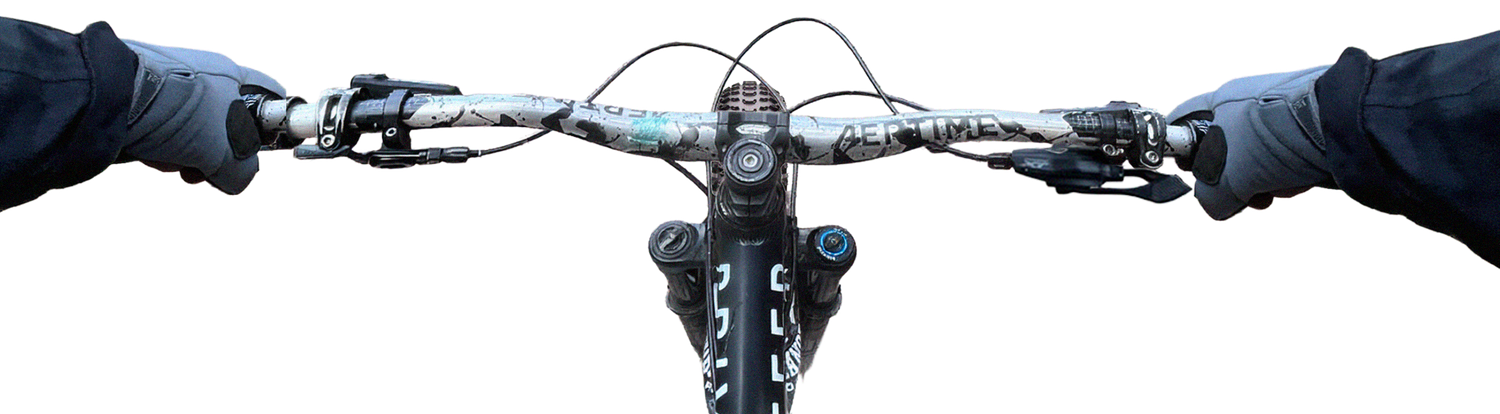
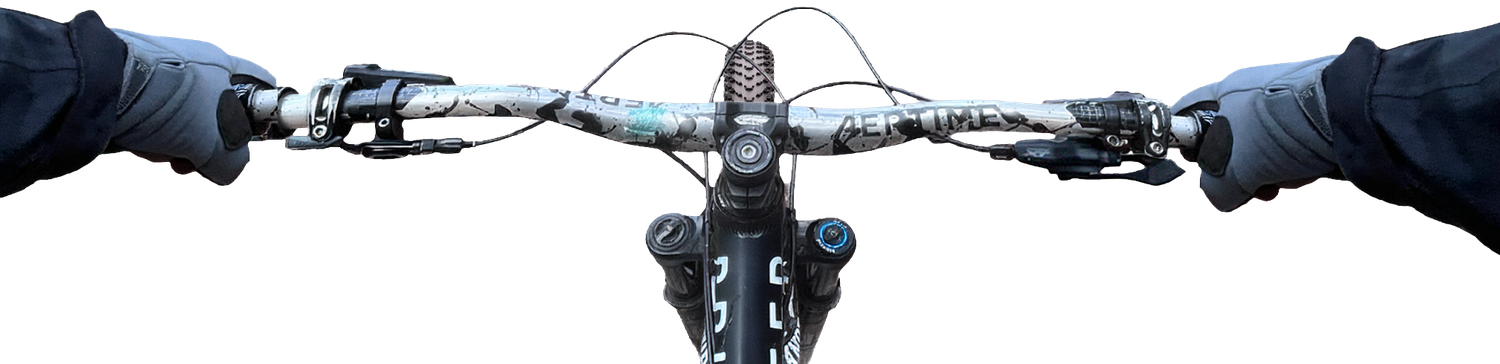
Nur noch ein Lenker (Aertime, neues Foto), schmutziger Reifen je nach Untergrund/Pfuetze/Regen, Spiegelungen und Lichtflecken auf dem Lenker
Claude-Session: https://claude.ai/code/session_019RP7ewH259xtsJocXXAwey

diff --git a/src/game.js b/src/game.js
@@ -2008,7 +2008,7 @@ function shift(d){
 }
 function hintHud(){
   const key=diff+'|'+quality+'|'+WX+'|'+WXLIVE+'|'+WXLIVEOK+'|'+AUDIO.on+'|'+AUDIO.hub+'|'+NIGHT;if(hintHud.k===key)return;hintHud.k=key;
-  hintEl.innerHTML=[1,2,3,4].map(n=>'<button type="button" data-act="d'+n+'"'+(diff===n?' class="on"':'')+'><b>'+n+'</b>'+DIFFN[n]+'</button>').join('')+'<button type="button" data-act="q"><b>Q</b>Grafik '+QN[quality]+'</button><button type="button" data-act="n"><b>N</b>Sound '+(AUDIO.on?'an':'aus')+'</button><button type="button" data-act="w"><b>W</b>Wetter '+WXL()+'</button><button type="button" data-act="v"><b>V</b>Vollbild</button><button type="button" data-act="c"><b>C</b>Lenker</button><button type="button" data-act="f"><b>F</b>Freilauf '+(AUDIO.hub?AUDIO.hub:'aus')+'</button>'+(MW?'<button type="button" data-act="l"'+(NIGHT?' class="on"':'')+'><b>L</b>Nightride'+(NIGHT?' an':'')+'</button>':'');
+  hintEl.innerHTML=[1,2,3,4].map(n=>'<button type="button" data-act="d'+n+'"'+(diff===n?' class="on"':'')+'><b>'+n+'</b>'+DIFFN[n]+'</button>').join('')+'<button type="button" data-act="q"><b>Q</b>Grafik '+QN[quality]+'</button><button type="button" data-act="n"><b>N</b>Sound '+(AUDIO.on?'an':'aus')+'</button><button type="button" data-act="w"><b>W</b>Wetter '+WXL()+'</button><button type="button" data-act="v"><b>V</b>Vollbild</button><button type="button" data-act="f"><b>F</b>Freilauf '+(AUDIO.hub?AUDIO.hub:'aus')+'</button>'+(MW?'<button type="button" data-act="l"'+(NIGHT?' class="on"':'')+'><b>L</b>Nightride'+(NIGHT?' an':'')+'</button>':'');
 }
 function gearHud(){
   hintHud();
@@ -2024,29 +2024,53 @@ click.onNote=t=>{toastEl.textContent=t;toastEl.classList.add('on');clearTimeout(
 let bleKey='';
 const bleChange=()=>{if(trainer.connected)inputMode='trainer';else if(inputMode==='trainer')inputMode='keyboard';const ck=click.connected+'|'+click.devs.length;if(bleKey.indexOf(ck)<0&&bleMsg.indexOf('Click')===0)bleMsg='';const k=trainer.connected+'|'+ck+'|'+bleMsg;if(k===bleKey)return;bleKey=k;if(ov.style.display!=='none'&&lastMenu&&!helpOpen)menu(lastMenu[0],lastMenu[1]);};
 trainer.onChange=bleChange;click.onChange=bleChange;   // nur noch Lenkeransicht (Cockpit)
-const CK_STAND=[1,3,0,900,30];let COCK=0;try{COCK=localStorage.getItem('miworu_cockpit')==='2'?1:0;}catch(e){}
+const CK_STAND=[1,3,0,900,30];const COCK=1;
 // Neuer Lenker: leichtes Filmkorn ueber dem Lenker und ein sich drehender Stollenreifen (Draufsicht), beides deckungsgleich mit dem Lenkerbild
-const CKT=document.createElement('div'),CKG=document.createElement('div');
-[CKT,CKG].forEach(d=>{d.className='ckfx';d.style.display='none';document.getElementById('cockpit').after(d);});
-CKT.id='cktire';CKG.id='ckgrain';
+const CKT=document.createElement('div'),CKG=document.createElement('div'),CKM=document.createElement('div'),CKS=document.createElement('div'),CKD=document.createElement('div');
+[CKT,CKM,CKS,CKD,CKG].forEach(d=>{d.className='ckfx';d.style.display='none';document.getElementById('cockpit').after(d);});
+CKT.id='cktire';CKG.id='ckgrain';CKM.id='ckmud';CKS.id='cksheen';CKD.id='ckdapple';
 {const c=document.createElement('canvas');c.width=20;c.height=14;const g=c.getContext('2d');   // Stollenmuster: dunkle Klotzchen mit heller Kante
   g.fillStyle='rgba(0,0,0,0.62)';g.fillRect(0,0,20,14);g.fillStyle='rgba(205,205,200,0.55)';
   g.fillRect(1,1,8,5);g.fillRect(11,8,8,5);g.fillStyle='rgba(30,30,30,0.7)';g.fillRect(2,5,7,1.5);g.fillRect(12,12,7,1.5);
   CKT.style.backgroundImage='url('+c.toDataURL()+')';}
+{const c=document.createElement('canvas');c.width=c.height=64;const g=c.getContext('2d');   // Schlammspritzer fuer den Reifen
+  for(let k=0;k<46;k++){const x=Math.random()*64,y=Math.random()*64,r=1.5+Math.random()*5;g.fillStyle='rgba('+(52+Math.random()*28|0)+','+(36+Math.random()*20|0)+','+(20+Math.random()*12|0)+','+(0.55+Math.random()*0.45).toFixed(2)+')';g.beginPath();g.ellipse(x,y,r,r*(0.6+Math.random()*0.8),Math.random()*3,0,6.3);g.fill();}
+  CKM.style.backgroundImage='url('+c.toDataURL()+')';}
+{const c=document.createElement('canvas');c.width=c.height=128;const g=c.getContext('2d');g.fillStyle='#fff';g.fillRect(0,0,128,128);   // Licht-und-Schatten-Flecken (Blaetterdach)
+  for(let k=0;k<26;k++){const x=Math.random()*128,y=Math.random()*128,r=6+Math.random()*16;const gr=g.createRadialGradient(x,y,0,x,y,r);gr.addColorStop(0,'rgba(0,0,0,0.85)');gr.addColorStop(1,'rgba(0,0,0,0)');g.fillStyle=gr;g.fillRect(x-r,y-r,2*r,2*r);}
+  CKD.style.backgroundImage='url('+c.toDataURL()+')';}
+let CKDIRT=0;
 let GRAINS=[];{for(let k=0;k<4;k++){const c=document.createElement('canvas');c.width=c.height=128;const g=c.getContext('2d'),d=g.createImageData(128,128);
   for(let i=0;i<d.data.length;i+=4){const v=Math.random()*255|0;d.data[i]=d.data[i+1]=d.data[i+2]=v;d.data[i+3]=255;}g.putImageData(d,0,0);GRAINS.push('url('+c.toDataURL()+')');}}
 let CKPH=0,CKLT=0,CKGT=0,CKGI=0;
+const CKENV={fd:0,surf:0,pud:false,spike:0};
 function updateCockFx(now,deg){
   const dt=Math.min(0.05,Math.max(0,(now-CKLT)/1000));CKLT=now;
   const tf=cockpitEl.style.transform,v=Math.max(0,st.v||0);
   CKPH=(CKPH+v*dt*34)%1000;   // Stollen laufen mit dem Tempo nach vorn (nach oben im Bild)
+  // Dreck am Reifen: Pfuetze = Spritzer, Trail/Schotter und Regen = langsam mehr, Asphalt = trocknet/wird abgeschleudert
+  const tgt=CKENV.surf===2?0.55:CKENV.surf===1?0.25:0;
+  if(CKENV.pud&&v>1)CKENV.spike=Math.min(1,CKENV.spike+dt*1.8*Math.min(1,v/6));
+  CKENV.spike=Math.max(0,CKENV.spike-dt*0.16);
+  const want=Math.max(Math.min(1,tgt+WXS.rain*0.2*(CKENV.surf?1:0.5)),CKENV.spike);
+  CKDIRT+=(want-CKDIRT)*Math.min(1,dt*(want>CKDIRT?1.6:0.12))*(v>0.5?1:0.2);
   const k=Math.max(0.3,1-v/16);                 // bei hohem Tempo weichere, verwischte Stollen
-  CKT.style.transform=CKG.style.transform=tf;CKT.style.display=CKG.style.display='block';
-  CKT.style.backgroundPosition='0 '+(-(CKPH%14)*0.11).toFixed(3)+'vw';CKT.style.opacity=k.toFixed(2);
+  const bgp='0 '+(-(CKPH%14)*0.11).toFixed(3)+'vw';
+  CKT.style.transform=CKG.style.transform=CKM.style.transform=CKS.style.transform=CKD.style.transform=tf;
+  CKT.style.display=CKG.style.display=CKM.style.display=CKS.style.display=CKD.style.display='block';
+  CKT.style.backgroundPosition=bgp;CKT.style.opacity=k.toFixed(2);
+  CKM.style.backgroundPosition='0 '+(-(CKPH%64)*0.11*0.5).toFixed(2)+'vw';CKM.style.opacity=Math.min(0.92,CKDIRT*1.35).toFixed(2);
+  // Spiegelungen / Licht: Himmelsreflex wandert mit Lenkung und Blickrichtung zur Sonne, Blaetterdach wirft Flecken, Nacht und Nebel daempfen
+  camera.getWorldDirection(_sv);
+  const sf=Math.max(0,_sv.x*SUN.x+_sv.z*SUN.z)/Math.max(0.001,Math.hypot(SUN.x,SUN.z)),day=WXS.day==null?1:WXS.day;
+  const clear=(1-WXS.fog*0.6)*(1-WXS.rain*0.5),forest=Math.min(1,CKENV.fd||0);
+  const gx=50+deg*2.2+Math.sin(now*0.0003)*6,glint=day*clear*(0.18+0.5*sf*sf)*(1-forest*0.55)+WXS.rain*0.14;
+  CKS.style.backgroundPosition=gx.toFixed(1)+'% 0';CKS.style.opacity=Math.min(0.85,glint).toFixed(2);
+  CKD.style.backgroundPosition=((now*0.012*(0.4+v*0.35))%128).toFixed(1)+'px '+((now*0.006)%128).toFixed(1)+'px';
+  CKD.style.opacity=(forest*day*0.55*(0.4+Math.min(1,v/5)*0.6)).toFixed(2);
   if(now-CKGT>70){CKGT=now;CKGI=(CKGI+1)%4;CKG.style.backgroundImage=GRAINS[CKGI];CKG.style.backgroundPosition=((Math.random()*128)|0)+'px '+((Math.random()*128)|0)+'px';}
 }
-function applyCockpit(){const el=document.getElementById('cockpit');el.src=COCK?'/assets/ui/cockpit2.png':'/assets/ui/cockpit.png';el.classList.toggle('c2',!!COCK);if(!COCK)CKT.style.display=CKG.style.display='none';}
-function cycleCockpit(){COCK=COCK?0:1;try{localStorage.setItem('miworu_cockpit',COCK?'2':'1');}catch(e){}applyCockpit();toastMsg('Lenker: '+(COCK?'Neu (Aertime)':'Original'));}
+function applyCockpit(){const el=document.getElementById('cockpit');el.src='/assets/ui/cockpit2.png';el.classList.add('c2');}
 applyCockpit();
 const cockpitEl=document.getElementById('cockpit'),glowEl=document.getElementById('glow'),_cd=new THREE.Vector3(),_sv=new THREE.Vector3();
 function reset(){SHK.y=SHK.vy=SHK.r=SHK.vr=0;SHK.i=0;SHK.fi=0;SHK.w=SHK.wv=0;SHK.air=null;st={pos:0,v:0,x:0.4,power:0,t:0,crank:0.6,wheel:0,lean:0,bar:0,pitch:0,done:false};resetJoggers();vanWait=12;VANS&&VANS.forEach(v=>{if(!v.parked){v.active=false;v.g.visible=false;}});}
@@ -2068,7 +2092,6 @@ window.addEventListener('keydown',e=>{
   if(e.key==='r'||e.key==='R')start();
   if(e.key==='Escape')pauseGame();
   if(e.key==='v'||e.key==='V')toggleFS();
-  if(e.key==='c'||e.key==='C')cycleCockpit();
   if(e.key==='q'||e.key==='Q')cycleQ();
   if(e.key==='n'||e.key==='N'){AUDIO.toggle();toastEl.textContent='Sound: '+(AUDIO.on?'an':'aus');toastEl.classList.add('on');clearTimeout(toastT);toastT=setTimeout(()=>toastEl.classList.remove('on'),1100);}
   if(e.key==='w'||e.key==='W')cycleWX();
@@ -2147,7 +2170,7 @@ function update(dt){
     if(hit&&!update.inPud&&st.v>1.5){splashDrops(st.v);AUDIO.splash(st.v);}update.inPud=hit;
   }
   if(AUDIO.on&&AUDIO.suspended&&st.t>3&&!update.sndT){update.sndT=1;toastEl.textContent='Sound aktivieren: einmal klicken oder eine Taste drücken';toastEl.classList.add('on');clearTimeout(toastT);toastT=setTimeout(()=>toastEl.classList.remove('on'),4000);}
-  {const fd=forestD(PX[i],PZ[i]);AUDIO.update(dt,{running:true,v:st.v,surf:SHK.air?-1:SURF[i],pedal:st.power>20?1:0,brake:!!down,forest:fd,rain:WXS.rain,day:WXS.day,night:NIGHT,pud:!!update.inPud});}
+  {const fd=forestD(PX[i],PZ[i]);CKENV.fd=fd;CKENV.surf=SURF[i];CKENV.pud=!!update.inPud;AUDIO.update(dt,{running:true,v:st.v,surf:SHK.air?-1:SURF[i],pedal:st.power>20?1:0,brake:!!down,forest:fd,rain:WXS.rain,day:WXS.day,night:NIGHT,pud:!!update.inPud});}
   updateJoggers(dt);updateWildlife(dt);updateVans(dt);updateGroup(dt);
   const steer=(right?1:0)-(left?1:0);
   // Automatische Lenkung (Rollentrainer wie D100 oder KICKR können nicht lenken): Lenker und Neigung folgen dem
@@ -2255,7 +2278,7 @@ function showHelp(){
     '<div class="hscroll">'+
     sec('Das Spiel',['Du fährst echte Mountainbike-Strecken aus der Lenkersicht. Dein Tempo entsteht nur durch dein Treten, auch bergab: Abfahrten sind neutral. Lenken und Ausweichen laufen automatisch.','Mit einem Smart-Trainer (Bluetooth) trittst du einfach los, ohne Trainer geht es mit der Tastatur.'])+
     sec('Trainer und Zwift-Geräte koppeln',['Für Zwift Cog und Zwift Click müssen <b>beide</b> gekoppelt sein, sonst funktioniert das Schalten nicht. Beide im Menü unter Bluetooth verbinden (Click vorher in den blauen Koppelmodus bringen).','<b>iPad / iPhone:</b> Safari kann kein Bluetooth. Dafür brauchst du einmalig die kostenlose Zusatz-App <b>Bluefy</b>: 1. Bluefy im App Store installieren. 2. MIWORU-Adresse in Safari kopieren. 3. Bluefy öffnen, Adresse in die Adresszeile einfügen. 4. Im Spiel Trainer, Cog und Click koppeln. Das Spiel immer in Bluefy starten, nicht in Safari.'])+
-    sec('Fahren',['<b>↑</b> treten · <b>↓</b> bremsen','<b>+</b> / <b>−</b> (oder Bild↑ / Bild↓): Gang schwerer / leichter. Zwift Click: <b>+</b> kurz = schwerer, gedrückt halten oder andere Taste = leichter.','<b>R</b> Neustart · <b>Esc</b> Pause und Menü · <b>C</b> Lenker wechseln · <b>V</b> Vollbild (Esc beendet es, auf dem Tablet das ✕ oben links)','Ins <b>Höhenprofil</b> oben klicken oder ziehen: an diese Stelle der Strecke springen.'])+
+    sec('Fahren',['<b>↑</b> treten · <b>↓</b> bremsen','<b>+</b> / <b>−</b> (oder Bild↑ / Bild↓): Gang schwerer / leichter. Zwift Click: <b>+</b> kurz = schwerer, gedrückt halten oder andere Taste = leichter.','<b>R</b> Neustart · <b>Esc</b> Pause und Menü · <b>V</b> Vollbild (Esc beendet es, auf dem Tablet das ✕ oben links)','Ins <b>Höhenprofil</b> oben klicken oder ziehen: an diese Stelle der Strecke springen.'])+
     sec('Schwierigkeit',['<b>1</b> Leicht: 1,6-fache Wirkung deiner Watt, Steigungen nur zu 40 %','<b>2</b> Normal','<b>3</b> Hardcore: Steigungen zu 150 %, 0,85-fache Watt','<b>4</b> Eskalation: 20 % härter als realistisch','Die Stufen sind auch oben rechts antippbar.'])+
     sec('Anzeige und Sound ein- und ausschalten',['<b>Q</b> Grafik: Niedrig, Mittel, Hoch (bei ruckelndem Bild eine Stufe tiefer)','<b>V</b> Vollbild an/aus (Esc beendet; auf dem Tablet das ✕ oben links)','<b>T</b> Tageszeit: Live, Morgen, Mittag, Abend, Dämmerung (Nebel in den Senken, Sonnenstrahlen)','<b>J</b> Jahreszeit: Standard, Herbst (Laubfarben, fallendes Laub), Winter (Schnee, kahle Bäume)','Auf Stufe Hoch: Sonnenstrahlen, Randunschärfe bei hohem Tempo, bei Nightride sichtbarer Lichtkegel mit Insekten','<b>W</b> Wetter: aus, Regen und weitere Stufen','<b>L</b> Nightride: Nachtfahrt an oder aus (nur auf den festen Strecken)','<b>N</b> Sound: alle Geräusche an oder aus','<b>F</b> Freilauf: schaltet durch aus, 16, 32, 56 und 72 Zähne. Weniger Zähne klingen gröber und klickernder, 72 ist das feine Surren. Bei hohem Tempo wird der Freilauf von Wind und Reifenabrollen überdeckt, ganz weg ist er nur auf „aus“.'])+
     sec('Nachtfahrt und Tiere',['Im Nightride fährst du mit Stirnlampe, Mond und Sternen. Nur dort und nur im dunklen Wald tauchen ab und zu Tiere auf: Wildschweine in einer Rotte mit Frischlingen, Hirsche und Rehe.','Du siehst sie nur schemenhaft am Wegrand, ihre Augen reflektieren das Licht deiner Lampe. Vor dem Weggehen rufen sie leise. Kommst du näher als 10 Meter, rennen sie weg und verschwinden in der Dunkelheit.','Ausschalten: <b>L</b> beendet den Nightride, und damit sind auch die Tiere weg. Ihre Rufe sind Teil von <b>N</b> (Sound).'])+
@@ -2392,7 +2415,7 @@ function menu(title,sub){
 // Pause + Hauptmenue (Esc oder Menue-Knopf oben rechts, z. B. fuer iPad ohne Tastatur)
 function pauseGame(){if(!running)return;running=false;paused=true;trainer.setGrade(0,0.005,true);offEl.style.display='none';menu('Weiterfahren','Pause · '+(st.pos/1000).toFixed(2)+' km · '+fmtT(st.t));}
 const menuBtn=document.getElementById('menuBtn');menuBtn.onclick=pauseGame;
-hintEl.onclick=e=>{const b=e.target.closest('[data-act]');if(!b)return;const a=b.getAttribute('data-act');if(a==='d1')setDiff(1);else if(a==='d2')setDiff(2);else if(a==='d3')setDiff(3);else if(a==='d4')setDiff(4);else if(a==='v')toggleFS();else if(a==='c')cycleCockpit();else if(a==='q')cycleQ();else if(a==='n'){AUDIO.toggle();toastEl.textContent='Sound: '+(AUDIO.on?'an':'aus');toastEl.classList.add('on');clearTimeout(toastT);toastT=setTimeout(()=>toastEl.classList.remove('on'),1100);}else if(a==='w')cycleWX();else if(a==='l')toggleNight();else if(a==='f'){const h=AUDIO.cycleHub();hintHud.k=null;toastEl.textContent='Freilauf: '+(h?h+' Zähne':'aus');toastEl.classList.add('on');clearTimeout(toastT);toastT=setTimeout(()=>toastEl.classList.remove('on'),1200);}};
+hintEl.onclick=e=>{const b=e.target.closest('[data-act]');if(!b)return;const a=b.getAttribute('data-act');if(a==='d1')setDiff(1);else if(a==='d2')setDiff(2);else if(a==='d3')setDiff(3);else if(a==='d4')setDiff(4);else if(a==='v')toggleFS();else if(a==='q')cycleQ();else if(a==='n'){AUDIO.toggle();toastEl.textContent='Sound: '+(AUDIO.on?'an':'aus');toastEl.classList.add('on');clearTimeout(toastT);toastT=setTimeout(()=>toastEl.classList.remove('on'),1100);}else if(a==='w')cycleWX();else if(a==='l')toggleNight();else if(a==='f'){const h=AUDIO.cycleHub();hintHud.k=null;toastEl.textContent='Freilauf: '+(h?h+' Zähne':'aus');toastEl.classList.add('on');clearTimeout(toastT);toastT=setTimeout(()=>toastEl.classList.remove('on'),1200);}};
 function resume(){if(GRP_CODE&&!GRP.peer)grpJoin();menuBtn.style.display='';paused=false;running=true;ov.style.display='none';hudBox.style.display='block';}
 const PK='miworu_prog2_'+RKEY;let SAVED=null;   // prog2: alte Fortschritte gehoerten zu anderen Strecken
 try{const o=JSON.parse(localStorage.getItem(PK)||'null');if(o&&o.pos>50&&Date.now()-o.ts<864e5)SAVED=o;}catch(e){}
@@ -2577,13 +2600,12 @@ function render(dt,now){
     camera.rotateX((running?Math.atan(tabD(st.pos))*0.7:0)-BRK*0.03+SHK.y*0.9+(SHK.air?0.035*Math.cos(Math.PI*airU()):0));
     const deg=clamp(st.bar,-17,17);                     // Lenker dreht mit
     cockpitEl.style.transform='translate(-50%,'+(18.5+Math.abs(deg)*0.062-(SHK.y+airH()*0.6)*70-(SHK.buzz||0)*0.12).toFixed(2)+'%) rotate('+clamp(deg+SHK.r*25+SHK.w+Math.sin(st.crank)*0.7*Math.min(1,st.power/150),-22,22).toFixed(2)+'deg)';
-    if(COCK){   // Eindruck 'im Stehen, von oben aufs Rad schauen': Lenkerbild nach vorn gekippt, Blick etwas nach unten
+    {   // Eindruck 'im Stehen, von oben aufs Rad schauen': Lenkerbild nach vorn gekippt, Blick etwas nach unten
       const K=CK_STAND;
       cockpitEl.style.transform+=' scaleY('+K[0]+')';
       cockpitEl.style.transformOrigin='50% '+K[4]+'%';CKT.style.transformOrigin=CKG.style.transformOrigin='50% '+K[4]+'%';
       camera.rotateX(-K[1]*Math.PI/180);
       updateCockFx(now,deg);}
-    else{CKT.style.display=CKG.style.display='none';}
   }
   sky.position.copy(camera.position);sky.material.uniforms.time.value=now*0.001;nightFrame();
   if(BK)applySun();

diff --git a/src/style.css b/src/style.css
@@ -153,6 +153,9 @@ body.night #cockpit{filter:brightness(.55) saturate(.85)}
 .unlock textarea.rsel{resize:vertical}
 #cockpit.c2{width:118vw;bottom:-0.6vw;transform-origin:50% 30%}
 
-.ckfx{position:absolute;left:50%;bottom:-0.6vw;width:118vw;aspect-ratio:1500/414;max-width:none;pointer-events:none;transform-origin:50% 30%;will-change:transform}
+.ckfx{position:absolute;left:50%;bottom:-0.6vw;width:118vw;aspect-ratio:1500/364;max-width:none;pointer-events:none;transform-origin:50% 30%;will-change:transform}
 #cktire{-webkit-mask:url(/assets/ui/tire2-mask.png) 0 0/100% 100% no-repeat;mask:url(/assets/ui/tire2-mask.png) 0 0/100% 100% no-repeat;background-size:2.2vw 1.54vw;mix-blend-mode:multiply}
+#ckmud{-webkit-mask:url(/assets/ui/tire2-mask.png) 0 0/100% 100% no-repeat;mask:url(/assets/ui/tire2-mask.png) 0 0/100% 100% no-repeat;background-size:5vw 5vw;opacity:0}
+#cksheen{-webkit-mask:url(/assets/ui/cockpit2.png) 0 0/100% 100% no-repeat;mask:url(/assets/ui/cockpit2.png) 0 0/100% 100% no-repeat;background:linear-gradient(100deg,transparent 0,rgba(255,255,255,0) 38%,rgba(235,245,255,.95) 49%,rgba(255,255,255,0) 60%,transparent 100%) 0 0/60% 100% no-repeat,linear-gradient(180deg,rgba(255,255,255,.55),rgba(255,255,255,0) 55%);mix-blend-mode:soft-light;opacity:0}
+#ckdapple{-webkit-mask:url(/assets/ui/cockpit2.png) 0 0/100% 100% no-repeat;mask:url(/assets/ui/cockpit2.png) 0 0/100% 100% no-repeat;background-size:30vw 30vw;mix-blend-mode:multiply;opacity:0}
 #ckgrain{-webkit-mask:url(/assets/ui/cockpit2.png) 0 0/100% 100% no-repeat;mask:url(/assets/ui/cockpit2.png) 0 0/100% 100% no-repeat;background-size:128px 128px;mix-blend-mode:overlay;opacity:.16}

diff --git a/index.html b/index.html
@@ -14,7 +14,7 @@
   <div id="vig"></div>
   <div id="glow"></div>
   <div id="grain"></div>
-  <img id="cockpit" src="/assets/ui/cockpit.png" alt="" style="display:none" draggable="false">
+  <img id="cockpit" src="/assets/ui/cockpit2.png" class="c2" alt="" style="display:none" draggable="false">
   <div id="hudbox" style="display:none">
     <button id="menuBtn" type="button" aria-label="Menü">☰ Menü</button>
     <div id="sec" class="hud"></div>
